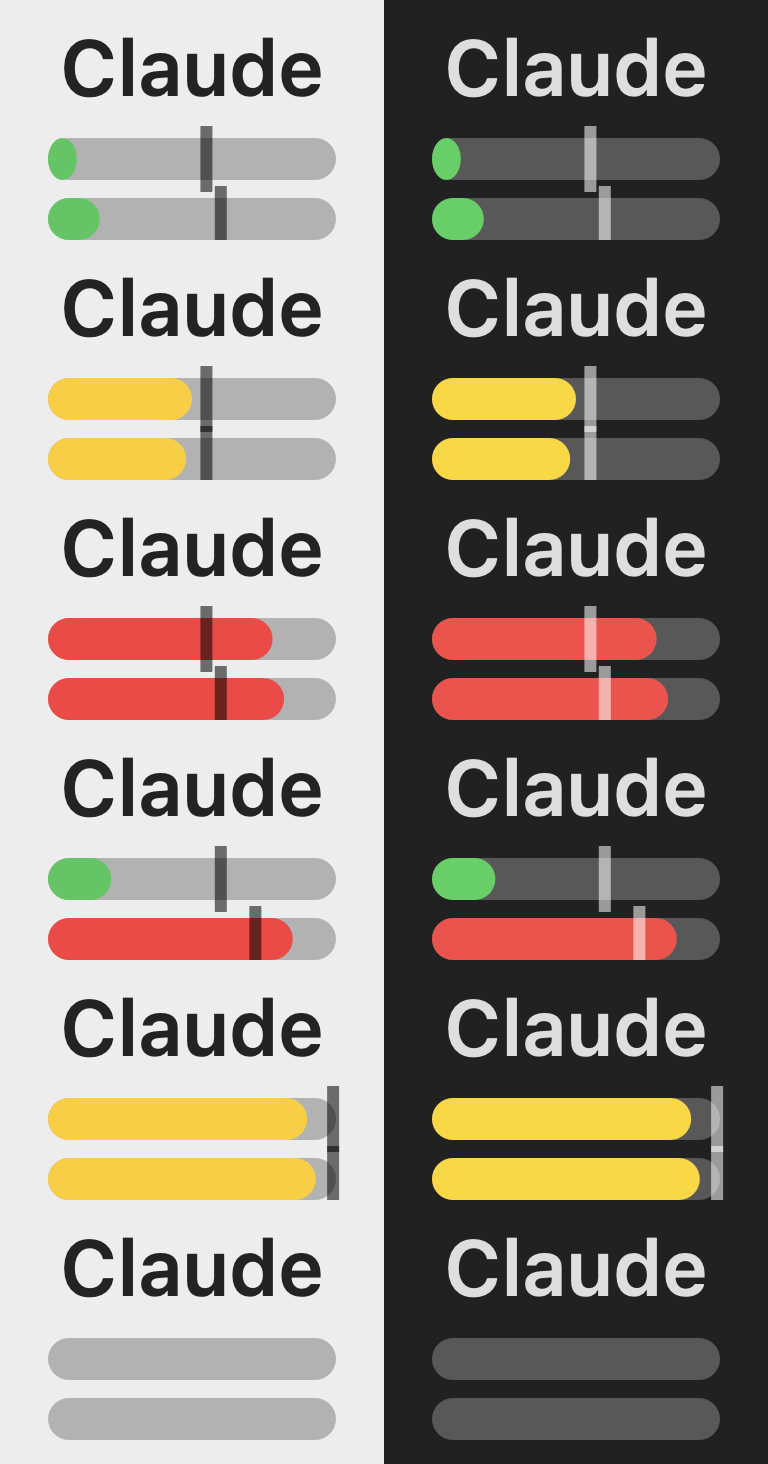
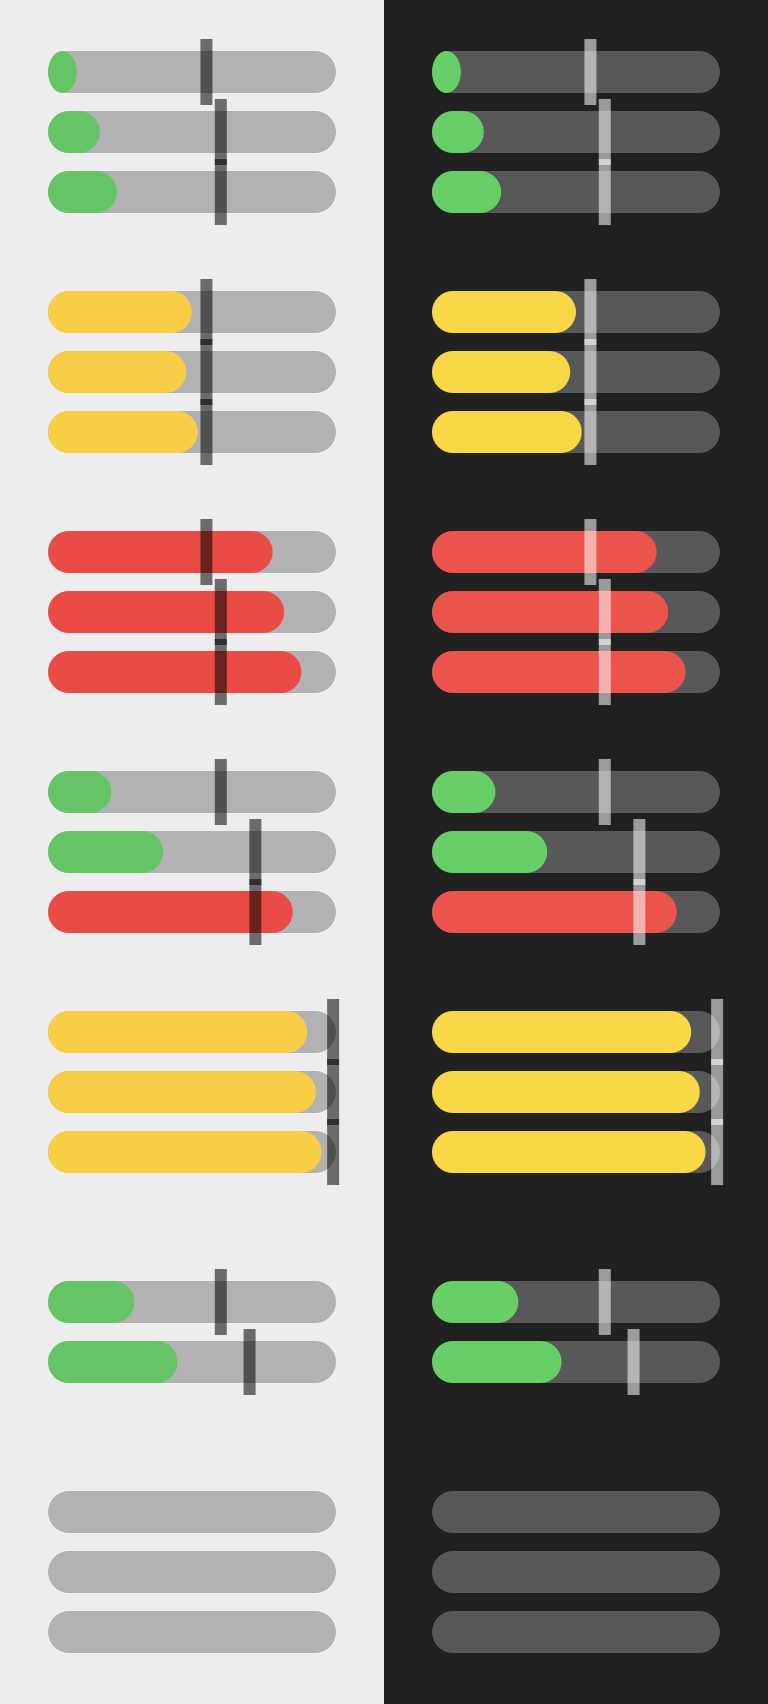
Add Fable sublimit bar and drop the Claude label

diff --git a/Sources/ClaudeBar/IconRenderer.swift b/Sources/ClaudeBar/IconRenderer.swift
@@ -3,29 +3,39 @@ import AppKit
 enum IconRenderer {
     static let size = NSSize(width: 28, height: 18)
     private static let barHeight: CGFloat = 3.5
-    private static let weeklyY: CGFloat = 0
-    private static let sessionY: CGFloat = 5
+    private static let barGap: CGFloat = 1.5
 
     /// How many points of cushion before the time line at which the bar turns
     /// from green (comfortable) to yellow (approaching the line).
     private static let paceWarnMargin: Double = 10
 
-    /// A tiny "Claude" label over two battery-style horizontal bars — Session
-    /// (5h) on top, Weekly (7d) below. Bar length is how much you've spent; a
-    /// thin vertical line marks how far into the window we are; and the color is
-    /// the pace between them — green with a comfortable cushion, yellow nearing
-    /// the line, red once the fill passes it. Colors adapt to the menu bar
-    /// appearance; `nil` draws an empty track / no line.
-    static func icon(
-        fiveHour: Double?, sevenDay: Double?,
-        fiveHourElapsed: Double?, sevenDayElapsed: Double?
-    ) -> NSImage {
+    /// One meter: how much you've spent, against how far into the window you
+    /// are. A `nil` percentage draws an empty track; a `nil` elapsed draws no
+    /// time line.
+    struct Bar {
+        var percentage: Double?
+        var elapsed: Double?
+    }
+
+    /// Battery-style horizontal bars, top to bottom in the order given —
+    /// Session (5h), Weekly (7d), and the per-model weekly sublimit when the
+    /// account has one. Bar length is how much you've spent; a thin vertical
+    /// line marks how far into the window we are; and the color is the pace
+    /// between them — green with a comfortable cushion, yellow nearing the
+    /// line, red once the fill passes it. The stack is centered, so an account
+    /// without a sublimit gets two centered bars rather than a dead track.
+    /// Colors adapt to the menu bar appearance.
+    static func icon(bars: [Bar]) -> NSImage {
         let image = NSImage(size: size, flipped: false) { rect in
-            drawLabel(in: rect)
-            drawBar(percentage: fiveHour, elapsed: fiveHourElapsed, y: sessionY, in: rect)
-            drawBar(percentage: sevenDay, elapsed: sevenDayElapsed, y: weeklyY, in: rect)
-            drawTimeLine(percent: fiveHourElapsed, barY: sessionY, in: rect)
-            drawTimeLine(percent: sevenDayElapsed, barY: weeklyY, in: rect)
+            let ys = bars.indices.map { barY(index: $0, count: bars.count, in: rect) }
+            // All bars, then all lines: a time line overhangs its bar by 1pt,
+            // so drawing per-bar would let the next fill paint over it.
+            for (bar, y) in zip(bars, ys) {
+                drawBar(percentage: bar.percentage, elapsed: bar.elapsed, y: y, in: rect)
+            }
+            for (bar, y) in zip(bars, ys) {
+                drawTimeLine(percent: bar.elapsed, barY: y, in: rect)
+            }
             return true
         }
         image.isTemplate = false
@@ -44,15 +54,11 @@ enum IconRenderer {
         return .systemRed
     }
 
-    private static func drawLabel(in rect: NSRect) {
-        // Sized and kerned to sit just inside the bar width (~22pt vs 24pt track).
-        let label = NSAttributedString(string: "Claude", attributes: [
-            .font: NSFont.systemFont(ofSize: 6.5, weight: .semibold),
-            .kern: -0.3,
-            .foregroundColor: NSColor.labelColor.withAlphaComponent(0.85),
-        ])
-        let textSize = label.size()
-        label.draw(at: NSPoint(x: rect.midX - textSize.width / 2, y: rect.maxY - textSize.height))
+    /// Vertically centers the whole stack; index 0 is the topmost bar.
+    private static func barY(index: Int, count: Int, in rect: NSRect) -> CGFloat {
+        let stack = CGFloat(count) * barHeight + CGFloat(max(count - 1, 0)) * barGap
+        let top = rect.midY + stack / 2
+        return top - CGFloat(index + 1) * barHeight - CGFloat(index) * barGap
     }
 
     private static func drawBar(percentage: Double?, elapsed: Double?, y: CGFloat, in rect: NSRect) {

diff --git a/Sources/ClaudeBar/AppDelegate.swift b/Sources/ClaudeBar/AppDelegate.swift
@@ -13,6 +13,10 @@ final class AppDelegate: NSObject, NSApplicationDelegate, NSMenuDelegate {
     private let pollInterval: TimeInterval = 180
     /// Don't issue a network call more often than this, however many events fire.
     private let minFetchSpacing: TimeInterval = 45
+    /// Lengths of the windows the endpoint reports. The per-model sublimit
+    /// shares the weekly window (and its reset time).
+    private let sessionLength: TimeInterval = 5 * 3600
+    private let weekLength: TimeInterval = 7 * 24 * 3600
 
     private var statusItem: NSStatusItem!
     private var pollTimer: Timer?
@@ -89,22 +93,34 @@ final class AppDelegate: NSObject, NSApplicationDelegate, NSMenuDelegate {
 
     private func render() {
         let now = Date()
-        let fiveHour = usage?.fiveHour?.effectivePercentage(at: now)
-        let sevenDay = usage?.sevenDay?.effectivePercentage(at: now)
-        let fiveHourElapsed = elapsedPercent(usage?.fiveHour, length: 5 * 3600, at: now)
-        let sevenDayElapsed = elapsedPercent(usage?.sevenDay, length: 7 * 24 * 3600, at: now)
-        let rounded = [
-            fiveHour.map { Int($0.rounded()) },
-            sevenDay.map { Int($0.rounded()) },
-            fiveHourElapsed.map { Int($0.rounded()) },
-            sevenDayElapsed.map { Int($0.rounded()) },
+        var bars = [
+            bar(usage?.fiveHour, length: sessionLength, at: now),
+            bar(usage?.sevenDay, length: weekLength, at: now),
         ]
+        // Only takes a third slot on accounts that actually have a per-model
+        // sublimit; otherwise the two bars re-center.
+        if let scoped = usage?.scopedWeekly {
+            bars.append(bar(scoped, length: weekLength, at: now))
+        }
+        // Redraw only when a rounded value changes. The count changes too if
+        // the sublimit appears or disappears, which counts as a change.
+        let rounded = bars.flatMap {
+            [$0.percentage.map { Int($0.rounded()) }, $0.elapsed.map { Int($0.rounded()) }]
+        }
         if rounded != lastDrawn {
             lastDrawn = rounded
-            statusItem.button?.image = IconRenderer.icon(
-                fiveHour: fiveHour, sevenDay: sevenDay,
-                fiveHourElapsed: fiveHourElapsed, sevenDayElapsed: sevenDayElapsed)
+            statusItem.button?.image = IconRenderer.icon(bars: bars)
         }
+    }
+
+    /// A window as the icon wants it: what you've spent, and how far into the
+    /// window we are.
+    private func bar(
+        _ window: UsageWindow?, length: TimeInterval, at now: Date
+    ) -> IconRenderer.Bar {
+        IconRenderer.Bar(
+            percentage: window?.effectivePercentage(at: now),
+            elapsed: elapsedPercent(window, length: length, at: now))
     }
 
     /// How far into a window we are, 0–100. nil when there's no data or the
@@ -132,9 +148,14 @@ final class AppDelegate: NSObject, NSApplicationDelegate, NSMenuDelegate {
         }
 
         menu.addItem(infoItem(
-            label: "Session (5h)", window: usage?.fiveHour, length: 5 * 3600, now: now))
+            label: "Session (5h)", window: usage?.fiveHour, length: sessionLength, now: now))
         menu.addItem(infoItem(
-            label: "Weekly (7d)", window: usage?.sevenDay, length: 7 * 24 * 3600, now: now))
+            label: "Weekly (7d)", window: usage?.sevenDay, length: weekLength, now: now))
+        if let scoped = usage?.scopedWeekly {
+            menu.addItem(infoItem(
+                label: "\(usage?.scopedName ?? "Scoped") (7d)",
+                window: scoped, length: weekLength, now: now))
+        }
         menu.addItem(disabledItem(statusText(now: now)))
 
         menu.addItem(.separator())

diff --git a/Sources/ClaudeBar/UsageClient.swift b/Sources/ClaudeBar/UsageClient.swift
@@ -16,6 +16,8 @@ struct UsageWindow {
 struct Usage {
     var fiveHour: UsageWindow?
     var sevenDay: UsageWindow?
+    var scopedWeekly: UsageWindow?   // per-model weekly sublimit, e.g. Fable
+    var scopedName: String?          // what it's scoped to, per the API
     var plan: String?      // subscription tier from the token, e.g. "max"
     var fetchedAt: Date
 }
@@ -58,9 +60,12 @@ enum UsageClient {
 
         guard let json = try? JSONSerialization.jsonObject(with: data) as? [String: Any]
         else { return .failure(.transport) }
+        let scoped = scopedWeekly(from: json["limits"])
         return .success(Usage(
             fiveHour: window(from: json["five_hour"]),
             sevenDay: window(from: json["seven_day"]),
+            scopedWeekly: scoped?.window,
+            scopedName: scoped?.name,
             plan: creds.plan,
             fetchedAt: Date()))
     }
@@ -119,6 +124,38 @@ enum UsageClient {
               let utilization = dict["utilization"] as? Double
         else { return nil }
         return UsageWindow(utilization: utilization, resetsAt: date(from: dict["resets_at"]))
+    }
+
+    /// The per-model weekly sublimit (e.g. Fable), from the newer `limits`
+    /// array — the old top-level `seven_day_opus`/`_sonnet` keys are all null
+    /// now. Matched on `kind` rather than the model name, so a rename doesn't
+    /// silently blank the bar; the API's own `display_name` becomes the label.
+    /// Only the first scoped limit is used — accounts have one today.
+    private static func scopedWeekly(from value: Any?) -> (window: UsageWindow, name: String)? {
+        guard let limits = value as? [[String: Any]],
+              let limit = limits.first(where: { $0["kind"] as? String == "weekly_scoped" }),
+              let percent = number(from: limit["percent"])
+        else { return nil }
+        let window = UsageWindow(utilization: percent, resetsAt: date(from: limit["resets_at"]))
+        return (window, modelName(from: limit["scope"]) ?? "Scoped")
+    }
+
+    /// "Fable" from a model-scoped limit. Surface-scoped limits exist in the
+    /// schema but we've never seen one populated, so rather than guess at its
+    /// shape they fall back to the generic "Scoped" label.
+    private static func modelName(from value: Any?) -> String? {
+        guard let scope = value as? [String: Any],
+              let model = scope["model"] as? [String: Any],
+              let display = model["display_name"] as? String, !display.isEmpty
+        else { return nil }
+        return display
+    }
+
+    /// `percent` arrives as an integer where `utilization` is a real.
+    private static func number(from value: Any?) -> Double? {
+        if let double = value as? Double { return double }
+        if let int = value as? Int { return Double(int) }
+        return nil
     }
 
     /// `resets_at` is ISO 8601 with fractional seconds (e.g.

diff --git a/Sources/ClaudeBar/Preview.swift b/Sources/ClaudeBar/Preview.swift
@@ -3,16 +3,21 @@ import AppKit
 /// Development helper (`claude-bar --preview out.png`): renders the icon at
 /// several usage levels, scaled up, against light and dark menu bar colors.
 func renderPreview(to path: String) {
-    // (fiveHour, sevenDay, fiveHourElapsed, sevenDayElapsed)
-    // Ordered to double as the README legend. color = pace: green cushion,
-    // yellow approaching the line, red past it; length = spend; line = elapsed.
-    let samples: [(Double?, Double?, Double?, Double?)] = [
-        (10, 18, 55, 60),    // comfortable — well under pace (green / green)
-        (50, 48, 55, 55),    // approaching the line (yellow / yellow)
-        (78, 82, 55, 60),    // over pace — spending too fast (red / red)
-        (22, 85, 60, 72),    // mixed — session fine, weekly over (green / red)
-        (90, 93, 99, 99),    // nearly full but still on pace (yellow / yellow)
-        (nil, nil, nil, nil),// no data yet
+    // Session (5h), Weekly (7d), then the per-model sublimit — each as
+    // (spend, elapsed). Ordered to double as the README legend. color = pace:
+    // green cushion, yellow approaching the line, red past it; length = spend;
+    // line = elapsed.
+    func bar(_ spent: Double?, _ elapsed: Double?) -> IconRenderer.Bar {
+        IconRenderer.Bar(percentage: spent, elapsed: elapsed)
+    }
+    let samples: [[IconRenderer.Bar]] = [
+        [bar(10, 55), bar(18, 60), bar(24, 60)],        // comfortable — all under pace
+        [bar(50, 55), bar(48, 55), bar(52, 55)],        // approaching the line
+        [bar(78, 55), bar(82, 60), bar(88, 60)],        // over pace — spending too fast
+        [bar(22, 60), bar(40, 72), bar(85, 72)],        // mixed — the sublimit binds first
+        [bar(90, 99), bar(93, 99), bar(95, 99)],        // nearly full but still on pace
+        [bar(30, 60), bar(45, 70)],                     // no sublimit — two bars re-center
+        [bar(nil, nil), bar(nil, nil), bar(nil, nil)],  // no data yet
     ]
     let scale: CGFloat = 6
     let cell = NSSize(width: IconRenderer.size.width * scale, height: IconRenderer.size.height * scale)
@@ -30,9 +35,7 @@ func renderPreview(to path: String) {
     NSRect(x: columnWidth, y: 0, width: columnWidth, height: canvas.height).fill()
 
     for (index, sample) in samples.enumerated() {
-        let icon = IconRenderer.icon(
-            fiveHour: sample.0, sevenDay: sample.1,
-            fiveHourElapsed: sample.2, sevenDayElapsed: sample.3)
+        let icon = IconRenderer.icon(bars: sample)
         let y = canvas.height - pad - cell.height - CGFloat(index) * (cell.height + pad)
         NSAppearance(named: .aqua)?.performAsCurrentDrawingAppearance {
             icon.draw(in: NSRect(x: pad, y: y, width: cell.width, height: cell.height))

diff --git a/README.md b/README.md
@@ -1,9 +1,10 @@
 # Claude Bar
 
-A dead-simple macOS menu bar app showing Claude Code rate limits as two tiny
-horizontal bars under a small "Claude" label: Session (5h) on top, Weekly (7d)
-below. Each bar's length is how much you've spent, and a thin vertical line
-marks how far into that window you are (5h for Session, 7 days for Weekly).
+A dead-simple macOS menu bar app showing Claude Code rate limits as tiny
+horizontal bars: Session (5h) on top, Weekly (7d) below it, and — if your
+account has a per-model weekly sublimit, like Fable — that one at the bottom.
+Each bar's length is how much you've spent, and a thin vertical line marks how
+far into that window you are (5h for Session, 7 days for the other two).
 
 The color is your **pace**, not the raw level: **green** when your spend sits
 comfortably behind the line, **yellow** as it approaches, and **red** once it
@@ -23,10 +24,13 @@ Top to bottom, each shown on a light and a dark menu bar:
 1. **Comfortable** — spend well behind the line, cushion to spare (green).
 2. **Approaching** — spend nearing the line; ease off soon (yellow).
 3. **Over pace** — spend past the line, burning faster than the window (red).
-4. **Mixed** — session fine while the weekly is already over (green + red).
+4. **Mixed** — session and overall weekly fine while the per-model sublimit is
+   already over (green + green + red). This is the case the third bar exists
+   for: the sublimit is often what you actually hit first.
 5. **Nearly full but on pace** — bars almost full yet still yellow: color tracks
    pace, length tracks spend.
-6. **No data yet** — empty tracks until the first reading arrives.
+6. **No sublimit** — accounts without a per-model limit show two bars, centered.
+7. **No data yet** — empty tracks until the first reading arrives.
 
 ## How it works
 
@@ -34,7 +38,11 @@ It reads your usage from the same first-party endpoint Claude Code itself uses
 — `GET https://api.anthropic.com/api/oauth/usage` — with the OAuth token from
 your login keychain. This is exactly what the `/usage` screen and the
 VSCode/Cursor Claude extension's own usage display call; the app just draws it
-as two bars. No transcript parsing, no estimates: these are the real numbers.
+as bars. No transcript parsing, no estimates: these are the real numbers.
+
+The per-model sublimit comes from the response's `limits` array, matched on
+`kind: "weekly_scoped"` rather than on the model's name — so a rename won't
+silently blank the bar, and the menu label is whatever the API reports.
 
 Because the data lives only on Anthropic's servers (nothing local caches it),
 the app fetches it directly. It works no matter how you use Claude Code —
@@ -57,7 +65,7 @@ Refreshing is deliberately lazy and power-friendly:
 - Immediate refresh on launch, on wake-from-sleep, and when you open the menu
   (throttled to one network call per ~45s).
 - No tight loops; idle CPU is effectively zero between polls. Zero
-  dependencies, ~350 lines of Swift.
+  dependencies, ~450 lines of Swift.
 - Read-only: it only ever reads your usage, never makes inference calls.
 
 ## Build & install
